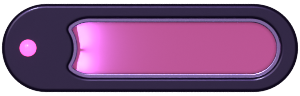
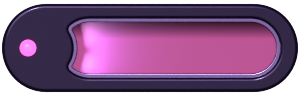
Aelith and Ombrai keys: a press pushes the inner part in with its label; the frame stays
Ombrai's glass drops 3 mm under the lip's shadow; the Aelith hologram drops 2.5 px inside its gold shell.
Owner: "I actually prefer the more animated versions on click".

Claude-Session: https://claude.ai/code/session_01RGPQutSeaqqyNu1NzGyRFA

Changed region(s): [[0.24, 0.2188, 0.9, 0.7812]]

diff --git a/docs/mockups/skins/aelith.js b/docs/mockups/skins/aelith.js
@@ -32,6 +32,12 @@ function holo(x, draw, box, level, col = AE.holo) {
 }
 const shape = (x, pts) => () => path(x, pts);
 const field = (x, pts, level, col) => holo(x, shape(x, pts), bounds(pts), level, col);
+// A pressed key's hologram is pushed in while its gold shell stays put (owner, 2026-10-31: "I actually prefer the more
+// animated versions on click"): it drops PRESS px and draws back into the void (a touch smaller), so its middle moves
+// with the label (2 x --btn-sink = 3 px) and it stays inside its well (the key has 2 px of void round it; pushed in,
+// 0.46 px is left at its foot).
+const PRESS = 2.5;
+function pushIn(x, pts) { const [x0, y0, x1, y1] = bounds(pts), cx = (x0 + x1) / 2, cy = (y0 + y1) / 2; x.translate(cx, cy + PRESS); x.scale(0.97, 0.92); x.translate(-cx, -cy); }
 // A key's sheen when pressed: a soft bar of light across its middle.
 function sheen(x, pts) { const [x0, y0, x1, y1] = bounds(pts); const g = x.createLinearGradient(0, y0, 0, y1); g.addColorStop(0, 'rgba(255,255,255,0)'); g.addColorStop(0.5, 'rgba(240,255,255,0.4)'); g.addColorStop(1, 'rgba(255,255,255,0)'); x.save(); path(x, pts); x.clip(); x.fillStyle = g; x.fillRect(x0, y0, x1 - x0, y1 - y0); x.restore(); }
 
@@ -41,7 +47,7 @@ const HOLO = {
   'frame.inset': (x, s) => field(x, s.wells[0], 0.08),
   'button.idle': (x, s) => field(x, s.holo.key, 0.15),
   'button.hover': (x, s) => field(x, s.holo.key, 0.6),
-  'button.pressed': (x, s) => { field(x, s.holo.key, 1); sheen(x, s.holo.key); },
+  'button.pressed': (x, s) => { x.save(); pushIn(x, s.holo.key); field(x, s.holo.key, 1); sheen(x, s.holo.key); x.restore(); },
   'tab.idle': (x, s) => field(x, s.holo.tab, 0.08),
   'tab.active': (x, s) => field(x, s.holo.tab, 0.75),
   'strip.top': (x, s) => field(x, s.holo.edge, 0.06),
@@ -127,7 +133,7 @@ function icon(name) {
 F.register('aelith', {
   name: 'Aelith Conclave', kind: 'Hybrid: a gold and pearl shell rendered in Blender, holograms drawn as vectors in its wells', bg: '#03111a',
   css: { '--s-ink': AE.holoHi, '--s-dim': '#9fc9cf', '--s-num': AE.holo, '--s-body': '"Exo 2", sans-serif', '--btn-ink': AE.holoHi, '--btn-shadow': `0 0 6px ${AE.holo}`, '--btn-justify': 'center',
-    '--btn-font': '400 11px/1 "Michroma", sans-serif', '--btn-track': '0.08em', '--btn-case': 'uppercase', '--btn-motion': 'filter 0.25s', '--btn-sink': '1px',
+    '--btn-font': '400 11px/1 "Michroma", sans-serif', '--btn-track': '0.08em', '--btn-case': 'uppercase', '--btn-motion': 'filter 0.25s, padding-top 0.06s', '--btn-sink': '1.5px',
     '--tab-font': '400 9.5px/1 "Michroma", sans-serif', '--tab-pb': '1px', '--btn-pb': '3px', '--tab-ink': '#9fc9cf', '--tab-ink-on': AE.holoHi, '--title-font': '400 15px/1 "Michroma", sans-serif', '--title-ink': AE.goldHi,
     '--lbl-font': '600 15px/1 "Exo 2", sans-serif', '--num-font': '300 28px/1 "Exo 2", sans-serif',
     // The strips are 72 px (owner, 2026-10-31: "we need to make parent taller"); their open band is the channel, rows 12-59,

diff --git a/docs/mockups/skins/ombrai.js b/docs/mockups/skins/ombrai.js
@@ -64,7 +64,7 @@ function icon(name) {
 F.register('ombrai', {
   name: 'Ombrai', kind: 'Plum metal over violet wells lit from below; every gauge a watching eye', bg: '#0b0516',
   css: { '--s-ink': OM.pale, '--s-dim': OM.dim, '--s-num': OM.pink, '--s-body': '"Quicksand", sans-serif', '--btn-ink': OM.pale, '--btn-shadow': `0 0 6px ${OM.pink}`, '--btn-justify': 'center',
-    '--btn-font': '700 13px/1 "Syncopate", sans-serif', '--btn-track': '0.14em', '--btn-case': 'uppercase', '--btn-motion': 'filter 0.4s', '--btn-sink': '1px',
+    '--btn-font': '700 13px/1 "Syncopate", sans-serif', '--btn-track': '0.14em', '--btn-case': 'uppercase', '--btn-motion': 'filter 0.4s, padding-top 0.06s', '--btn-sink': '1.5px',
     '--tab-font': '700 10px/1 "Syncopate", sans-serif', '--tab-ink': OM.dim, '--tab-ink-on': OM.pale, '--title-font': '700 14px/1 "Syncopate", sans-serif', '--title-ink': OM.lilac,
     '--lbl-font': '700 15px/1 "Quicksand", sans-serif', '--num-font': '500 26px/1 "Quicksand", sans-serif',
     // The strips are 72 px (owner, 2026-10-31: "we need to make parent taller"); their open band is the channel, rows 11-60,

diff --git a/tools/blender/build_ui_ombrai.py b/tools/blender/build_ui_ombrai.py
@@ -36,7 +36,7 @@ import sys
 HERE = os.path.dirname(os.path.abspath(__file__))
 sys.path.insert(0, HERE)
 import ui_render  # noqa: E402  (the render harness every Blender skin shares)
-from ui_shapes import NodeKit, Panel, film_ink, film_mat, link_layers, lip_runs, metal, printed, rrect  # noqa: E402
+from ui_shapes import MM, NodeKit, Panel, film_ink, film_mat, link_layers, lip_runs, metal, printed, rrect  # noqa: E402
 
 SHAPES = json.load(open(os.path.join(ui_render.ROOT, "assets", "ui", "ombrai", "shapes.json")))["pieces"]
 
@@ -47,6 +47,7 @@ MOON = {"green": "#7affc8", "yellow": "#ffd36a", "red": "#ff2f5a"}
 SIDE = (1.0, 0.42, 0.82)                                    # the side lamps: pink-violet
 SIDE_W = float(os.environ.get("SIDE_W", 0.0045))            # their power per mm of left lip (times the lamp scale)
 MAIN = (float(os.environ.get("MAIN_S", 0.4)), 60.0)                                          # the soft main light on the wells: strength, size (deg)
+PRESS_MM = 3.0                                              # how far a pressed key's glass travels, down and in (3 px at 1x)
 DISPLAY = ("void", "eyefilm", "keyfilm", "line", "moon_green", "moon_yellow", "moon_red", "lid", "iris", "pupil", "shade")
 
 
@@ -61,14 +62,21 @@ def plum(name):
     return k.mat
 
 
-def glass(name, base, col, es, ao_mm):
+def glass(name, base, col, es, ao_mm, lip=None):
     """A key's or a tab's film: dark violet glass (the same in every state) that glows col at es from behind, darkened
-    by occlusion at its rim like the bible's film. Only es changes between idle, hover and pressed."""
+    by occlusion at its rim like the bible's film. Only es changes between idle, hover and pressed, except that a
+    pressed key's glass, pushed in under the frame, takes the top lip's shadow: lip = (top, band) in the glass's own
+    object coordinates (m, y up), a dark band from top falling off over band below it."""
     k = NodeKit(name)
     ao = k.N.new("ShaderNodeAmbientOcclusion")
     ao.samples, ao.only_local = 16, False
     ao.inputs["Distance"].default_value = ao_mm * 0.001
     occ = k.math("POWER", ao.outputs["AO"], 2.2)
+    if lip is not None:
+        sep = k.N.new("ShaderNodeSeparateXYZ")
+        k.L.new(k.co, sep.inputs[0])
+        fall = k.math("DIVIDE", k.math("SUBTRACT", lip[0], sep.outputs["Y"]), lip[1], clamp=True)
+        occ = k.math("MULTIPLY", occ, k.math("ADD", 0.05, k.math("MULTIPLY", k.math("POWER", fall, 2.0), 0.95)))
     k.set(Base_Color=k.ramp(occ, "#07020c", base), Roughness=0.55, Emission_Color=col, Emission_Strength=k.math("MULTIPLY", occ, es))
     return k.mat
 
@@ -98,6 +106,13 @@ def side(K, well, seg, colour=SIDE, power=1.0):
                     depth=K.dz + min(3.0, -K.dz * 0.4), colour=colour)
 
 
+def key_lip(K, s):
+    """The top lip's shadow on a pressed key's glass, in the glass's object coordinates (it moved down PRESS_MM with
+    the glass): from the well's top edge, 2 PRESS_MM + 4 mm deep (the bezel hides its first few mm)."""
+    top = min(p[1] for kind, w in s["wells"] if kind == "key" for p in w)
+    return ((K.h / 2 - top + PRESS_MM) * MM, (2 * PRESS_MM + 4.0) * MM)
+
+
 def mats(K, s, name):
     lv = s["level"]
     ao = min(6.0, -s["dz"] * 0.6)
@@ -108,7 +123,8 @@ def mats(K, s, name):
                groove=K.mat("wall", lambda: printed("wall", PAL["wall"])),
                void=K.mat("void", lambda: film_mat("void", col=PAL["void"], shadow=PAL["void_lo"], es=0.35, ao_mm=ao)),
                eyefilm=K.mat("eyefilm", lambda: film_mat("eyefilm", col="#2a0f3e", shadow=PAL["void_lo"], es=0.25 + 0.9 * lv, ao_mm=ao)),
-               keyfilm=K.mat("keyfilm", lambda: glass("keyfilm", "#2b1240", PAL["key_hot"] if hot else PAL["key"], 0.03 + 0.55 * lv, ao)),
+               keyfilm=K.mat("keyfilm", lambda: glass("keyfilm", "#2b1240", PAL["key_hot"] if hot else PAL["key"], 0.03 + 0.55 * lv, ao,
+                                                     lip=key_lip(K, s) if hot and name.startswith("button") else None)),
                line=K.mat("line", lambda: film_mat("line", col=PAL["pink"], shadow="#12041c", es=0.9, rim=False)),
                lid=K.mat("lid", lambda: film_ink("lid", PAL["lilac"], es=0.18 + 0.55 * lv)),
                iris=K.mat("iris", lambda: film_ink("iris", eye_col, es=0.12 + 1.6 * lv)),
@@ -127,9 +143,16 @@ def piece(name):
         mats(K, s, name)
         wells = [(kind, [tuple(p) for p in w]) for kind, w in s["wells"]]
         plate = [tuple(p) for p in s["plate"]]
+        # A pressed key's glass is pushed in, down PRESS_MM and back PRESS_MM, and the page's label sinks the same
+        # PRESS_MM (skins/ombrai.js --btn-sink), so glass and letters move as one while the plum frame stays put (owner,
+        # 2026-10-31: "I actually prefer the more animated versions on click"). Moved, the film still lies inside the
+        # plate (0.7 mm from its foot) and still covers the whole well (0.7 mm above its top).
+        press = PRESS_MM if name == "button.pressed" else 0.0
         for (kind, _w), f in zip(wells, s["films"]):   # films measured to fit inside the plate (rule B)
             fm = {"void": "void", "eye": "eyefilm", "key": "keyfilm", "line": "line"}.get(kind, kind)
-            K.film(None, shape=[tuple(p) for p in f], m=K.m[fm])
+            ob = K.film(None, shape=[tuple(p) for p in f], m=K.m[fm], z=K.dz - (press if kind == "key" else 0.0))
+            if kind == "key":
+                ob.location.y -= press * MM
         K.plate([plate] + [w for _k, w in wells])
         for kind, w in wells:
             gap = min(min(math.hypot(x - px, y - py) for px, py in plate) for x, y in w)
